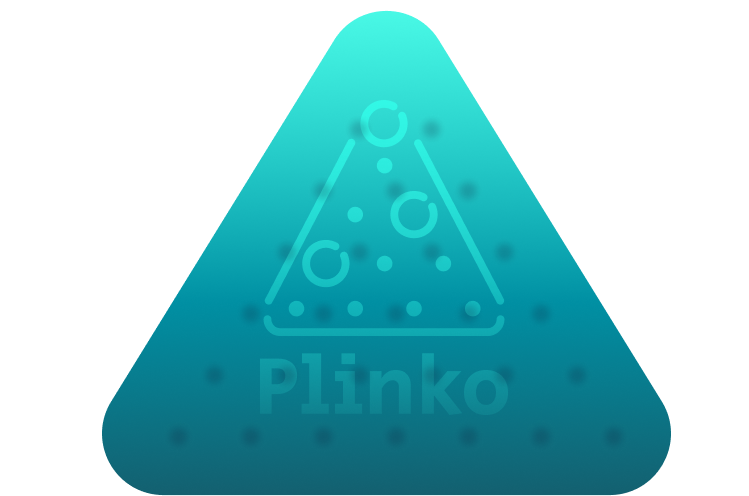
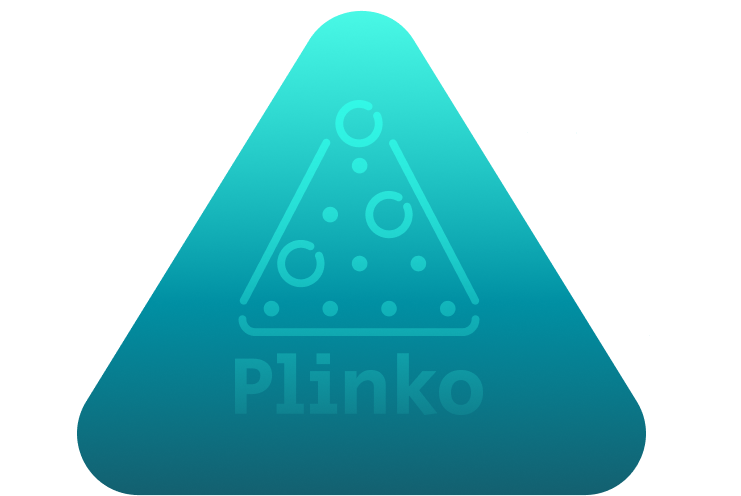
fix img and media

diff --git a/app/css/style.min.css b/app/css/style.min.css
@@ -1,1 +1,1 @@
-@import url("https://fonts.googleapis.com/css2?family=Inter:wght@300;400;500;600&display=swap");@import url("https://fonts.googleapis.com/css2?family=Montserrat:ital,wght@0,300;0,400;0,500;0,600;0,700;0,800;0,900;1,800&display=swap");html{-webkit-box-sizing:border-box;box-sizing:border-box;width:100%;max-width:100%;overflow:auto}*,*::before,*::after{-webkit-box-sizing:inherit;box-sizing:inherit;padding:0;margin:0}body{font-weight:400;position:relative;display:-webkit-box;display:-ms-flexbox;display:flex;-webkit-box-orient:vertical;-webkit-box-direction:normal;-ms-flex-direction:column;flex-direction:column;overflow:hidden}.wrapper{min-height:100%;display:-webkit-box;display:-ms-flexbox;display:flex;-webkit-box-orient:vertical;-webkit-box-direction:normal;-ms-flex-direction:column;flex-direction:column}.main{-webkit-box-flex:1;-ms-flex:1 1 auto;flex:1 1 auto}a{display:inline-block;text-decoration:none;color:#030303;outline:none}a:focus-visible{-webkit-box-shadow:0px 0px 6px 2px rgba(0,0,0,0.3);box-shadow:0px 0px 6px 2px rgba(0,0,0,0.3)}p,span,ul,ol li,input,textarea{font-family:"Inter",sans-serif}ul,li,ol{list-style:none;padding:0;margin:0}h1,h2,h3,h4{font-weight:500;margin:0;padding:0;color:#030303}h1{font-size:6.4rem}h2{font-size:4.8rem}h3{font-size:2rem}h4{font-size:1.6rem}button{border:none;outline:none;cursor:pointer;background-color:transparent;color:#030303}button:focus-visible{-webkit-box-shadow:0px 0px 6px 2px rgba(0,0,0,0.3);box-shadow:0px 0px 6px 2px rgba(0,0,0,0.3)}.container{max-width:1170px;padding:0 15px;margin:0 auto}body{height:auto}.wrapper{background-image:url(../img/bg/background.png);background-repeat:no-repeat;background-size:cover;background-position:center;min-height:100vh}.header_logo{z-index:1;display:-webkit-box;display:-ms-flexbox;display:flex;-webkit-box-align:center;-ms-flex-align:center;align-items:center}.logo_container{margin:0 auto;padding-top:50px;padding-bottom:50px}.logo img{max-width:100%;width:255px}.welcom_bonus{display:-webkit-box;display:-ms-flexbox;display:flex;-webkit-box-align:center;-ms-flex-align:center;align-items:center;margin-bottom:150px}.welcome_container{margin:-50px auto}.bonus{position:relative;z-index:3;display:-webkit-box;display:-ms-flexbox;display:flex;-webkit-box-align:center;-ms-flex-align:center;align-items:center;margin-bottom:85px}.bonus_container{margin:0 auto}.lottie-animation_container{display:-webkit-box;display:-ms-flexbox;display:flex;-webkit-box-pack:center;-ms-flex-pack:center;justify-content:center}#lottie-animation{position:absolute;top:0;width:1440px;height:1070px}#lottie-animation_red{position:absolute;top:0;width:1440px;height:1070px}.bonus_img{min-width:100%;width:580px}.btn{position:relative;margin-bottom:-15px}@-webkit-keyframes pulse{0%{-webkit-transform:scale(1);transform:scale(1)}50%{-webkit-transform:scale(1.2);transform:scale(1.2)}100%{-webkit-transform:scale(1);transform:scale(1)}}@keyframes pulse{0%{-webkit-transform:scale(1);transform:scale(1)}50%{-webkit-transform:scale(1.2);transform:scale(1.2)}100%{-webkit-transform:scale(1);transform:scale(1)}}.button{display:-webkit-box;display:-ms-flexbox;display:flex;-webkit-box-pack:center;-ms-flex-pack:center;justify-content:center}.button a{color:white;font-family:'Montserrat';font-weight:bold;font-size:33px;text-align:center;text-decoration:none;background-color:#FF0000;display:block;position:relative;border-radius:15px;padding:20px;width:250px;height:80px;-webkit-tap-highlight-color:rgba(0,0,0,0);-webkit-filter:dropshadow(color=#000,offx=0 px,offy=1 px);filter:dropshadow(color=#000,offx=0 px,offy=1 px);-webkit-box-shadow:inset 0 1px 0 #FFE5C4, 0 10px 0 #AA0B0B;box-shadow:inset 0 1px 0 #FFE5C4, 0 10px 0 #AA0B0B;border-radius:15px;-webkit-animation:pulse 2s infinite;animation:pulse 2s infinite}.button a:active{top:10px;border-radius:15px;background-color:#AA0B0B;-webkit-box-shadow:inset 0 1px 0 #FFE5C4, inset 0 -3px 0 #AA0B0B;box-shadow:inset 0 1px 0 #FFE5C4, inset 0 -3px 0 #AA0B0B}.button:after{content:"";height:100%;width:100%;padding:4px;position:absolute;bottom:-15px;left:-4px;z-index:-1;border-radius:25px}.footer{display:-webkit-box;display:-ms-flexbox;display:flex;-webkit-box-align:center;-ms-flex-align:center;align-items:center;z-index:1}.footer__icons{display:-webkit-box;display:-ms-flexbox;display:flex;-webkit-box-align:center;-ms-flex-align:center;align-items:center;-webkit-box-pack:center;-ms-flex-pack:center;justify-content:center;-ms-flex-wrap:wrap;flex-wrap:wrap;text-align:center}.footer_copyright{color:#FFF;max-width:900px;margin-top:15px;font-family:Montserrat;font-size:10px;font-style:normal;font-weight:300;padding:10px}@media (min-width: 2550px){.logo_container{margin-bottom:100px}.welcom_bonus{margin-bottom:250px}#lottie-animation,#lottie-animation_red{width:1800px;height:1500px;top:25px}.welcom_bonus_img{width:900px}}@media (min-width: 1025px){.welcom_bonus_img{margin-left:-20px}.footer{margin-top:40px}}@media (max-width: 950px){.welcom_bonus_img{width:500px;-webkit-transition:all 0.5s ease;transition:all 0.5s ease;margin-top:130px;margin-left:-10px}.button a{-webkit-transition:all 0.5s ease;transition:all 0.5s ease;width:200px;height:60px;padding:15px;font-size:25px}#lottie-animation_red{width:1000px}#lottie-animation{width:1000px;-webkit-transition:all 0.5s ease;transition:all 0.5s ease}.footer__icons,.footer_copyright{-webkit-transition:all 0.5s ease;transition:all 0.5s ease;width:500px;margin:0 auto}.footer{margin-top:40px}}@media (max-width: 525px){.welcom_bonus{margin-bottom:150px}.welcom_bonus_img{width:400px}#lottie-animation_red{top:-70px;width:800px}#lottie-animation{top:-70px;width:800px}.footer__icons,.footer_copyright{width:330px;font-size:9px}.logo img{-webkit-transition:all 0.5s ease;transition:all 0.5s ease;width:200px}}@media (max-width: 475px){.welcom_bonus{margin-bottom:110px}.welcom_bonus_img{width:300px;margin-top:15px}.bonus{margin-bottom:50px}.bonus_img{width:280px}#lottie-animation_red{width:600px;top:-227px}#lottie-animation{width:600px;top:-227px}.button a{-webkit-transition:all 0.5s ease;transition:all 0.5s ease;width:150px;height:50px;font-size:18px}.footer__icons-item img{width:100px}.footer__icons,.footer_copyright{width:300px;font-size:9px}}
+@import url("https://fonts.googleapis.com/css2?family=Inter:wght@300;400;500;600&display=swap");@import url("https://fonts.googleapis.com/css2?family=Montserrat:ital,wght@0,300;0,400;0,500;0,600;0,700;0,800;0,900;1,800&display=swap");html{-webkit-box-sizing:border-box;box-sizing:border-box;width:100%;max-width:100%;overflow:auto}*,*::before,*::after{-webkit-box-sizing:inherit;box-sizing:inherit;padding:0;margin:0}body{font-weight:400;position:relative;display:-webkit-box;display:-ms-flexbox;display:flex;-webkit-box-orient:vertical;-webkit-box-direction:normal;-ms-flex-direction:column;flex-direction:column;overflow:hidden}.wrapper{min-height:100%;display:-webkit-box;display:-ms-flexbox;display:flex;-webkit-box-orient:vertical;-webkit-box-direction:normal;-ms-flex-direction:column;flex-direction:column}.main{-webkit-box-flex:1;-ms-flex:1 1 auto;flex:1 1 auto}a{display:inline-block;text-decoration:none;color:#030303;outline:none}a:focus-visible{-webkit-box-shadow:0px 0px 6px 2px rgba(0,0,0,0.3);box-shadow:0px 0px 6px 2px rgba(0,0,0,0.3)}p,span,ul,ol li,input,textarea{font-family:"Inter",sans-serif}ul,li,ol{list-style:none;padding:0;margin:0}h1,h2,h3,h4{font-weight:500;margin:0;padding:0;color:#030303}h1{font-size:6.4rem}h2{font-size:4.8rem}h3{font-size:2rem}h4{font-size:1.6rem}button{border:none;outline:none;cursor:pointer;background-color:transparent;color:#030303}button:focus-visible{-webkit-box-shadow:0px 0px 6px 2px rgba(0,0,0,0.3);box-shadow:0px 0px 6px 2px rgba(0,0,0,0.3)}.container{max-width:1170px;padding:0 15px;margin:0 auto}body{height:auto}.wrapper{background-image:url(../img/bg/background.png);background-repeat:no-repeat;background-size:cover;background-position:center;min-height:100vh}.header_logo{z-index:1;display:-webkit-box;display:-ms-flexbox;display:flex;-webkit-box-align:center;-ms-flex-align:center;align-items:center}.logo_container{margin:0 auto;padding-top:50px;padding-bottom:50px}.logo img{max-width:100%;width:255px}.welcom_bonus{display:-webkit-box;display:-ms-flexbox;display:flex;-webkit-box-align:center;-ms-flex-align:center;align-items:center;margin-bottom:150px}.welcome_container{margin:-50px auto}.welcom_bonus_img{margin-left:20px}.lottie-animation_container{display:-webkit-box;display:-ms-flexbox;display:flex;-webkit-box-pack:center;-ms-flex-pack:center;justify-content:center}#lottie-animation{position:absolute;top:0;width:1440px;height:1070px}#lottie-animation_red{position:absolute;top:0;width:1440px;height:1070px}.btn{position:relative;margin-bottom:-15px}@-webkit-keyframes pulse{0%{-webkit-transform:scale(1);transform:scale(1)}50%{-webkit-transform:scale(1.2);transform:scale(1.2)}100%{-webkit-transform:scale(1);transform:scale(1)}}@keyframes pulse{0%{-webkit-transform:scale(1);transform:scale(1)}50%{-webkit-transform:scale(1.2);transform:scale(1.2)}100%{-webkit-transform:scale(1);transform:scale(1)}}.button{display:-webkit-box;display:-ms-flexbox;display:flex;-webkit-box-pack:center;-ms-flex-pack:center;justify-content:center}.button a{color:white;font-family:'Montserrat';font-weight:bold;font-size:33px;text-align:center;text-decoration:none;background-color:#FF0000;display:block;position:relative;border-radius:15px;padding:20px;width:250px;height:80px;-webkit-tap-highlight-color:rgba(0,0,0,0);-webkit-filter:dropshadow(color=#000,offx=0 px,offy=1 px);filter:dropshadow(color=#000,offx=0 px,offy=1 px);-webkit-box-shadow:inset 0 1px 0 #FFE5C4, 0 10px 0 #AA0B0B;box-shadow:inset 0 1px 0 #FFE5C4, 0 10px 0 #AA0B0B;border-radius:15px;-webkit-animation:pulse 2s infinite;animation:pulse 2s infinite}.button a:active{top:10px;border-radius:15px;background-color:#AA0B0B;-webkit-box-shadow:inset 0 1px 0 #FFE5C4, inset 0 -3px 0 #AA0B0B;box-shadow:inset 0 1px 0 #FFE5C4, inset 0 -3px 0 #AA0B0B}.button:after{content:"";height:100%;width:100%;padding:4px;position:absolute;bottom:-15px;left:-4px;z-index:-1;border-radius:25px}.footer{display:-webkit-box;display:-ms-flexbox;display:flex;-webkit-box-align:center;-ms-flex-align:center;align-items:center;z-index:1}.footer__icons{display:-webkit-box;display:-ms-flexbox;display:flex;-webkit-box-align:center;-ms-flex-align:center;align-items:center;-webkit-box-pack:center;-ms-flex-pack:center;justify-content:center;-ms-flex-wrap:wrap;flex-wrap:wrap;text-align:center}.footer_copyright{color:#FFF;max-width:900px;margin-top:15px;font-family:Montserrat;font-size:10px;font-style:normal;font-weight:300;padding:10px}@media (min-width: 2550px){.logo_container{margin-bottom:100px}.welcom_bonus{margin-bottom:250px}#lottie-animation,#lottie-animation_red{width:1800px;height:1500px;top:25px}.welcom_bonus_img{width:900px}}@media (min-width: 1025px){.footer{margin-top:40px}}@media (max-width: 950px){.welcom_bonus_img{width:500px;-webkit-transition:all 0.5s ease;transition:all 0.5s ease;margin-top:130px}.button a{-webkit-transition:all 0.5s ease;transition:all 0.5s ease;width:200px;height:60px;padding:15px;font-size:25px}#lottie-animation_red{width:1000px}#lottie-animation{width:1000px;-webkit-transition:all 0.5s ease;transition:all 0.5s ease}.footer__icons,.footer_copyright{-webkit-transition:all 0.5s ease;transition:all 0.5s ease;width:500px;margin:0 auto}.footer{margin-top:40px}}@media (max-width: 525px){.welcom_bonus{margin-bottom:150px}.welcom_bonus_img{width:400px}#lottie-animation_red{top:-70px;width:800px}#lottie-animation{top:-70px;width:800px}.footer__icons,.footer_copyright{width:330px;font-size:9px}.logo img{-webkit-transition:all 0.5s ease;transition:all 0.5s ease;width:200px}}@media (max-width: 475px){.welcom_bonus{margin-bottom:110px}.welcom_bonus_img{width:300px;margin-top:30px;margin-left:10px}.bonus{margin-bottom:50px}.bonus_img{width:280px}#lottie-animation_red{width:600px;top:-227px}#lottie-animation{width:600px;top:-227px}.button a{-webkit-transition:all 0.5s ease;transition:all 0.5s ease;width:150px;height:50px;font-size:18px}.footer__icons-item img{width:100px}.footer__icons,.footer_copyright{width:300px;font-size:9px}}

diff --git a/app/scss/_media.scss b/app/scss/_media.scss
@@ -17,9 +17,6 @@
 }
 
 @media (min-width: 1025px) {
-    .welcom_bonus_img {
-        margin-left: -20px;
-    }
     .footer {
         margin-top: 40px;
     }
@@ -31,7 +28,6 @@
         -webkit-transition: all 0.5s ease;
         transition: all 0.5s ease;
         margin-top: 130px;
-        margin-left: -10px;
     }
     .button a {
         transition: all 0.5s ease;
@@ -90,7 +86,8 @@
     }
     .welcom_bonus_img {
         width: 300px;
-        margin-top: 15px;
+        margin-top: 30px;
+        margin-left: 10px;
     }
     .bonus {
         margin-bottom: 50px;

diff --git a/app/scss/style.scss b/app/scss/style.scss
@@ -39,16 +39,8 @@ body {
     margin: -50px auto;
 }
 
-.bonus {
-    position: relative;
-    z-index: 3;
-    display: flex;
-    align-items: center;
-    margin-bottom: 85px;
-}
-
-.bonus_container {
-    margin: 0 auto;
+.welcom_bonus_img {
+    margin-left: 20px;
 }
 
 .lottie-animation_container {
@@ -68,11 +60,6 @@ body {
     top: 0;
     width: 1440px;
     height: 1070px;
-}
-
-.bonus_img {
-    min-width: 100%;
-    width: 580px;
 }
 
 .btn {
